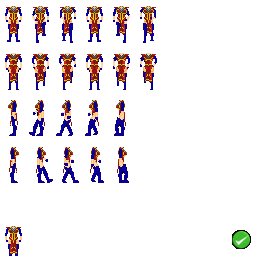
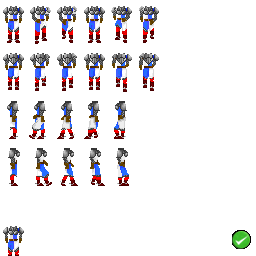
Agrego validacion para sacar renderizado de undefineds

Changed region(s): [[0.0, 0.0, 0.4062, 0.75], [0.4375, 0.0, 0.625, 0.75], [0.0, 0.875, 0.0938, 1.0]]

diff --git a/components/CharacterRenderer.vue b/components/CharacterRenderer.vue
@@ -19,12 +19,12 @@ export default {
 
     const body = {
       imgSrc: this.body,
-      w: 19,
+      w: 24,
       h: 47,
       sx: 3,
       sy: 0,
       offsetX: 0,
-      offsetY: 22,
+      offsetY: 21,
     };
 
     const weapon = {
@@ -78,9 +78,9 @@ export default {
       offsetX: 3,
       offsetY: 0,
     };
-
-    // const objects = [body, head, helmet];
-    const objects = [body, head, weapon, helmet, shield];
+console.log(123, shield)
+    let objects = [body, head, weapon, shield, helmet];
+    objects = objects.filter(x => x.imgSrc);
 
     for (const o of objects) {
       let img = new Image();
